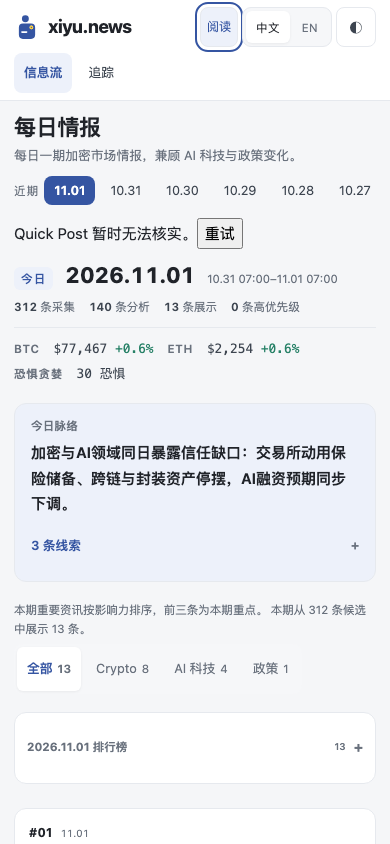
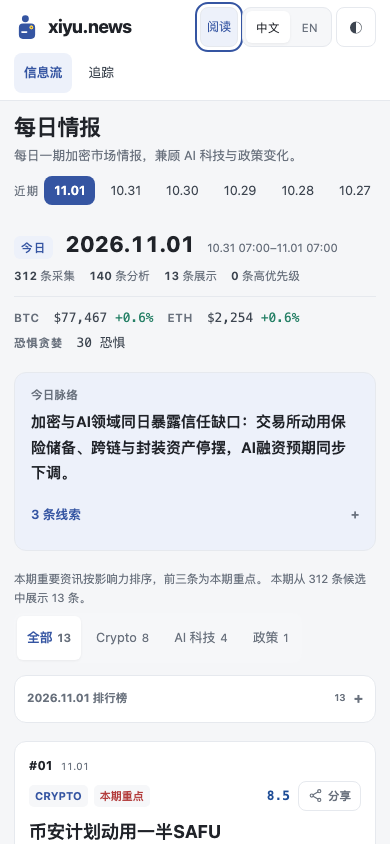
fix: compact mobile ranking and align loading feedback

diff --git a/docs/assets/css/editorial-ui.css b/docs/assets/css/editorial-ui.css
@@ -434,6 +434,8 @@
 .event-feed-item:target { outline: 2px solid var(--accent); outline-offset: 3px; }
 .event-update-content .digest-item-meta > div { display: flex; flex-wrap: wrap; align-items: baseline; gap: 3px 8px; }
 .reader-dialog { overscroll-behavior: contain; }
+[data-quick-post-status]:not(:empty) { display: flex; align-items: center; flex-wrap: wrap; gap: 6px 12px; padding: 8px 12px; margin-block: 8px; border: 1px solid var(--border); border-radius: var(--control-radius); background: var(--surface); color: var(--text-soft); font-size: 12px; }
+[data-quick-post-status] button { min-height: 36px; padding: 4px 10px; font: inherit; color: var(--accent); background: var(--accent-soft); border: 0; border-radius: var(--control-radius); cursor: pointer; }
 @media (max-width: 760px) {
   .site-actions { gap: 4px; }
   .theme-toggle { width: 40px; height: 40px; }
@@ -449,4 +451,6 @@
   .event-update-content { grid-column: 2; }
   .event-update-marker { left: 0; right: auto; top: 21px; }
   .event-update:not(:last-child) .event-update-rail::after { left: 4px; right: auto; top: 29px; bottom: -16px; }
+  .daily-feed-layout > .headline-rail:not(:has(.headline-index[open])) { padding: 0 12px; margin-block: 6px; }
+  [data-quick-post-status] button { min-height: 44px; }
 }

diff --git a/project-docs/releases/2026-11-01-reader-ux.md b/project-docs/releases/2026-11-01-reader-ux.md
@@ -16,7 +16,7 @@
 
 ## 五阶段状态
 
-- 代码：已实现；共享 CSS/JS 指纹 sha256-5a6abfb7339f，两份配置一致。
+- 代码：已实现；共享 CSS/JS 指纹 sha256-e7b88362a4d4，两份配置一致。手机收起的排行使用紧凑单行高度，公开插入内容加载失败的重试入口也采用共享控件样式，避免浏览器默认按钮突兀。
 - 测试：完整 Python 1121 passed / 4 个既有 skipped，120 项网页 Node、最终资源指纹、治理与 git diff --check 通过；npm ci 审计 0 漏洞。最初资产压缩测试因新 worktree 未安装 esbuild 无法启动，npm ci 补齐锁定依赖后完整网页测试通过，未修改依赖或锁文件。
 - 合并：待 PR 与远端检查。
 - 部署：待正常 Deploy Docs → 统一 Cloudflare。

diff --git a/project-docs/handoff.md b/project-docs/handoff.md
@@ -10,7 +10,7 @@
   "owner": "当前会话唯一编辑与生产整合负责人",
   "branch": "agent/reader-ux",
   "last_verified_commit": "ff9902f9b013c2fa70989a4a20610379b45d6944",
-  "pr": "本地验证通过，待建立 PR 并核对远端检查",
+  "pr": "PR310，等待远端检查通过后合并",
   "completed": [
     "核对正式域、远端 main、开放任务与旧工作区，保留用户未跟踪文件",
     "确认首页追踪挤占首屏、筛选后锚点目标隐藏、操作触控过小与详情重复日期等问题",
